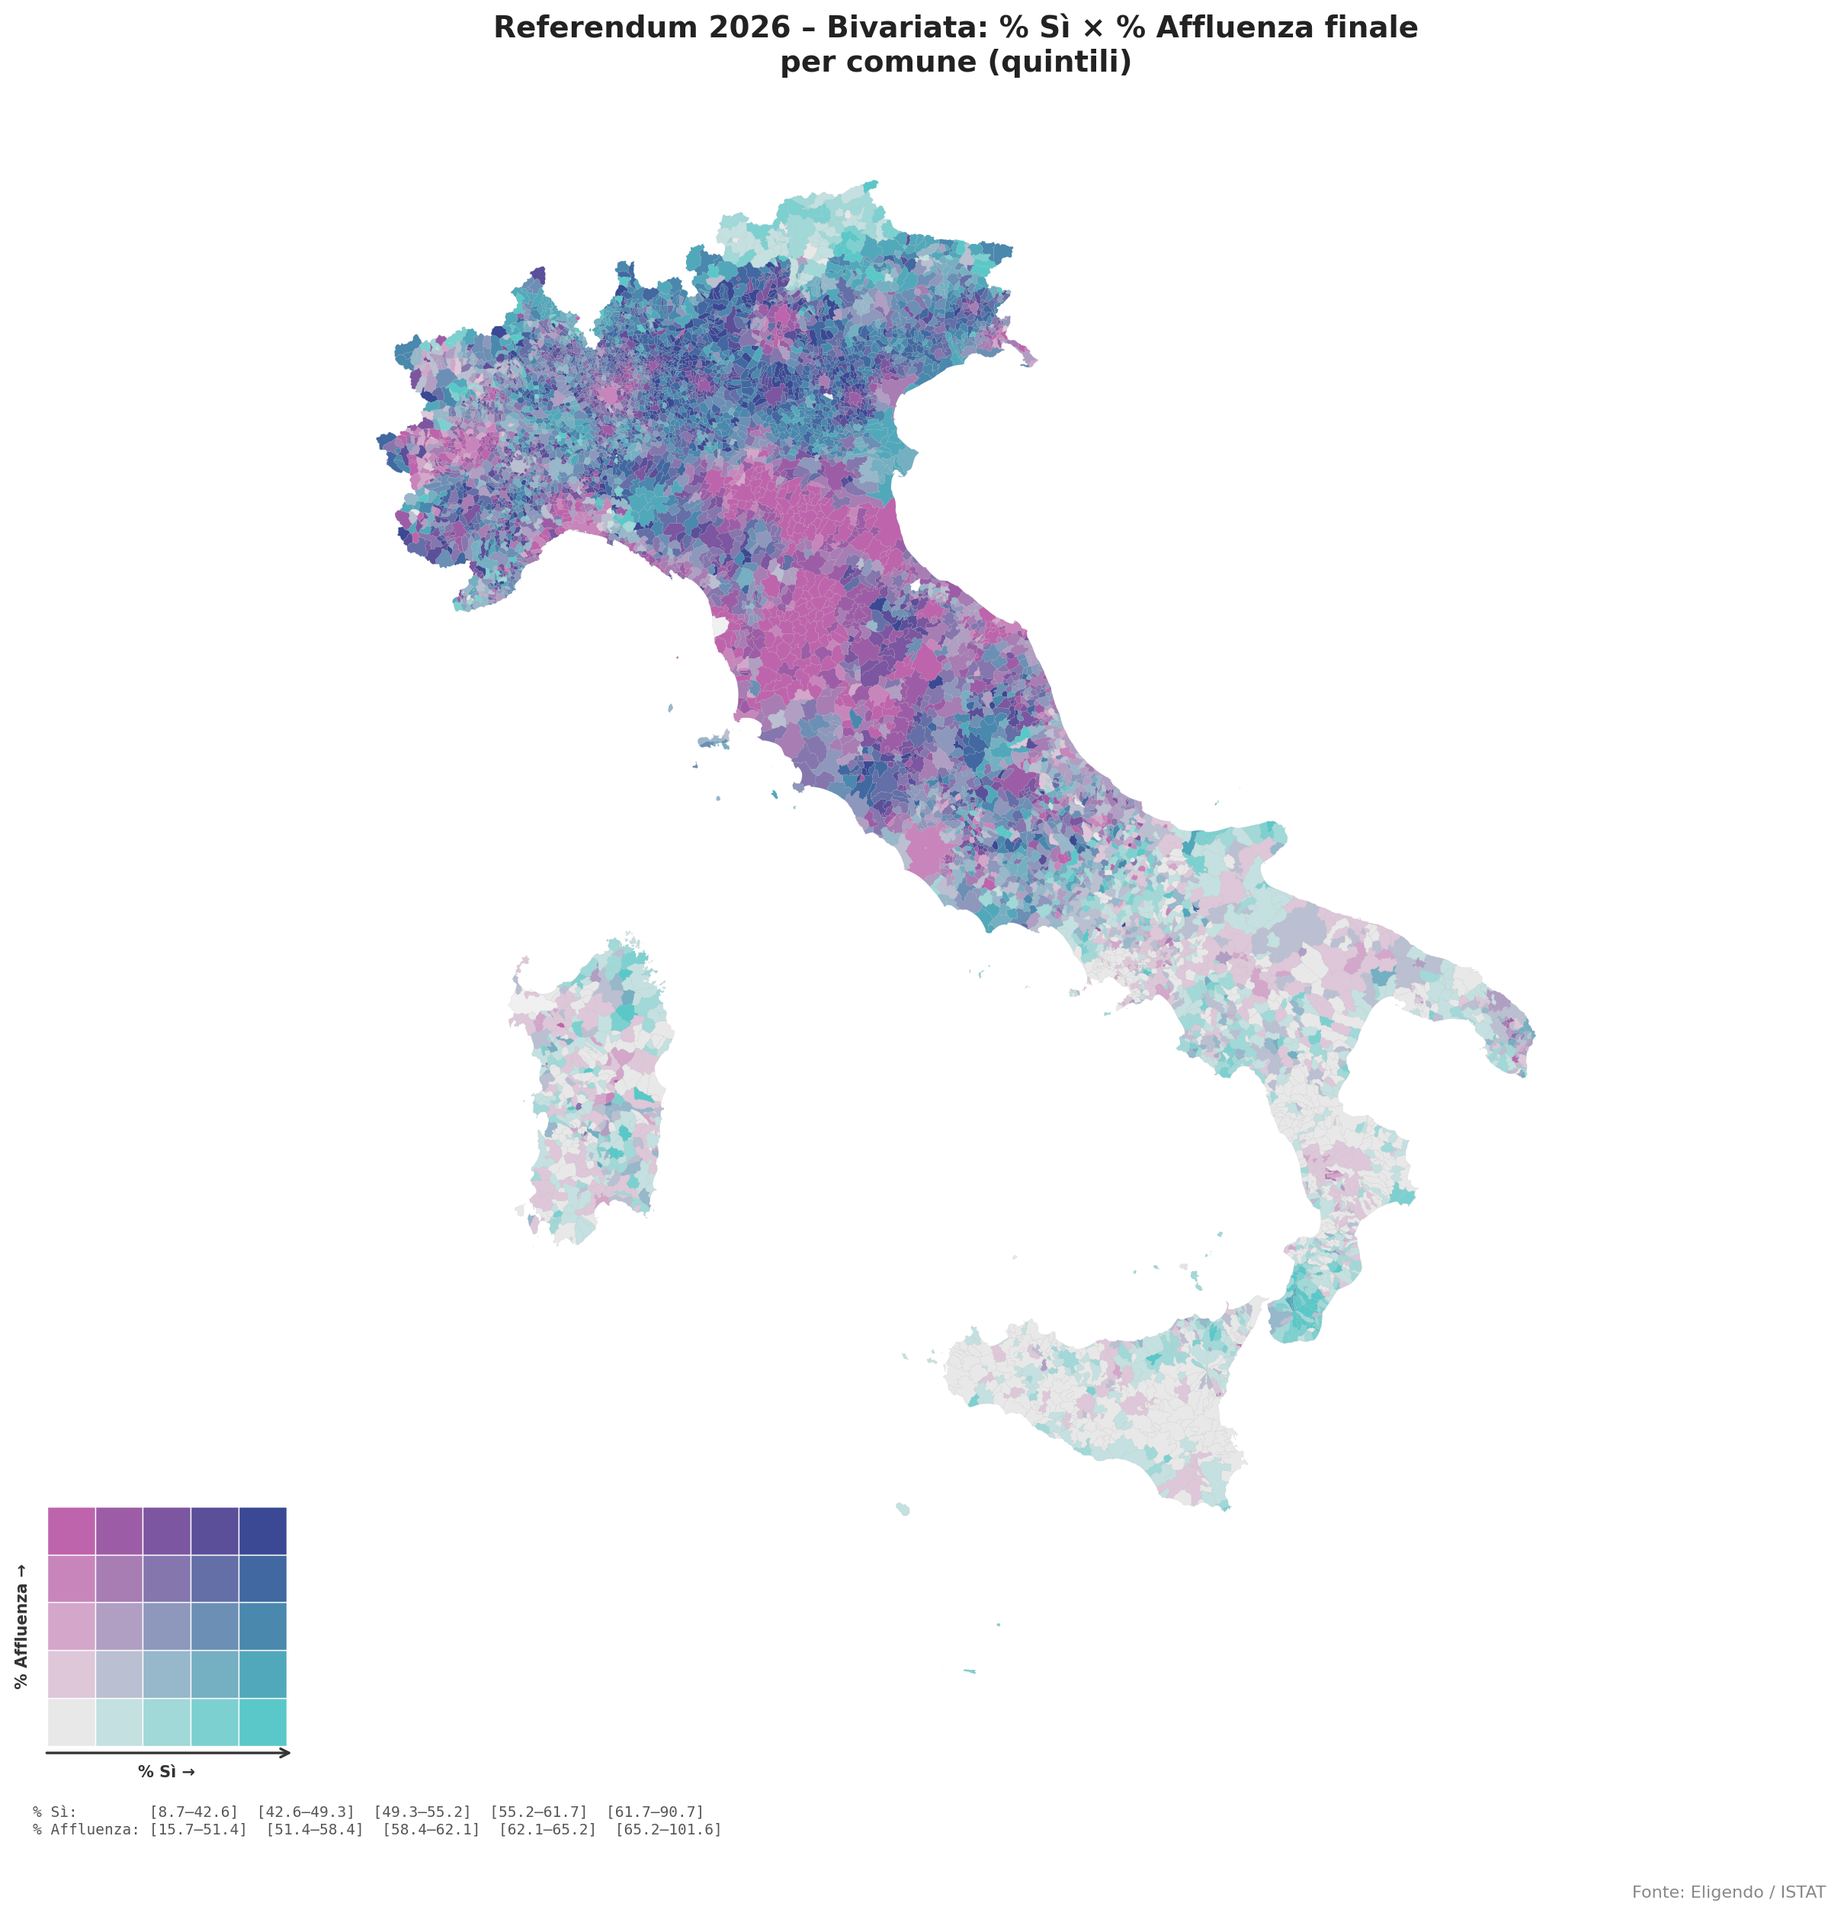
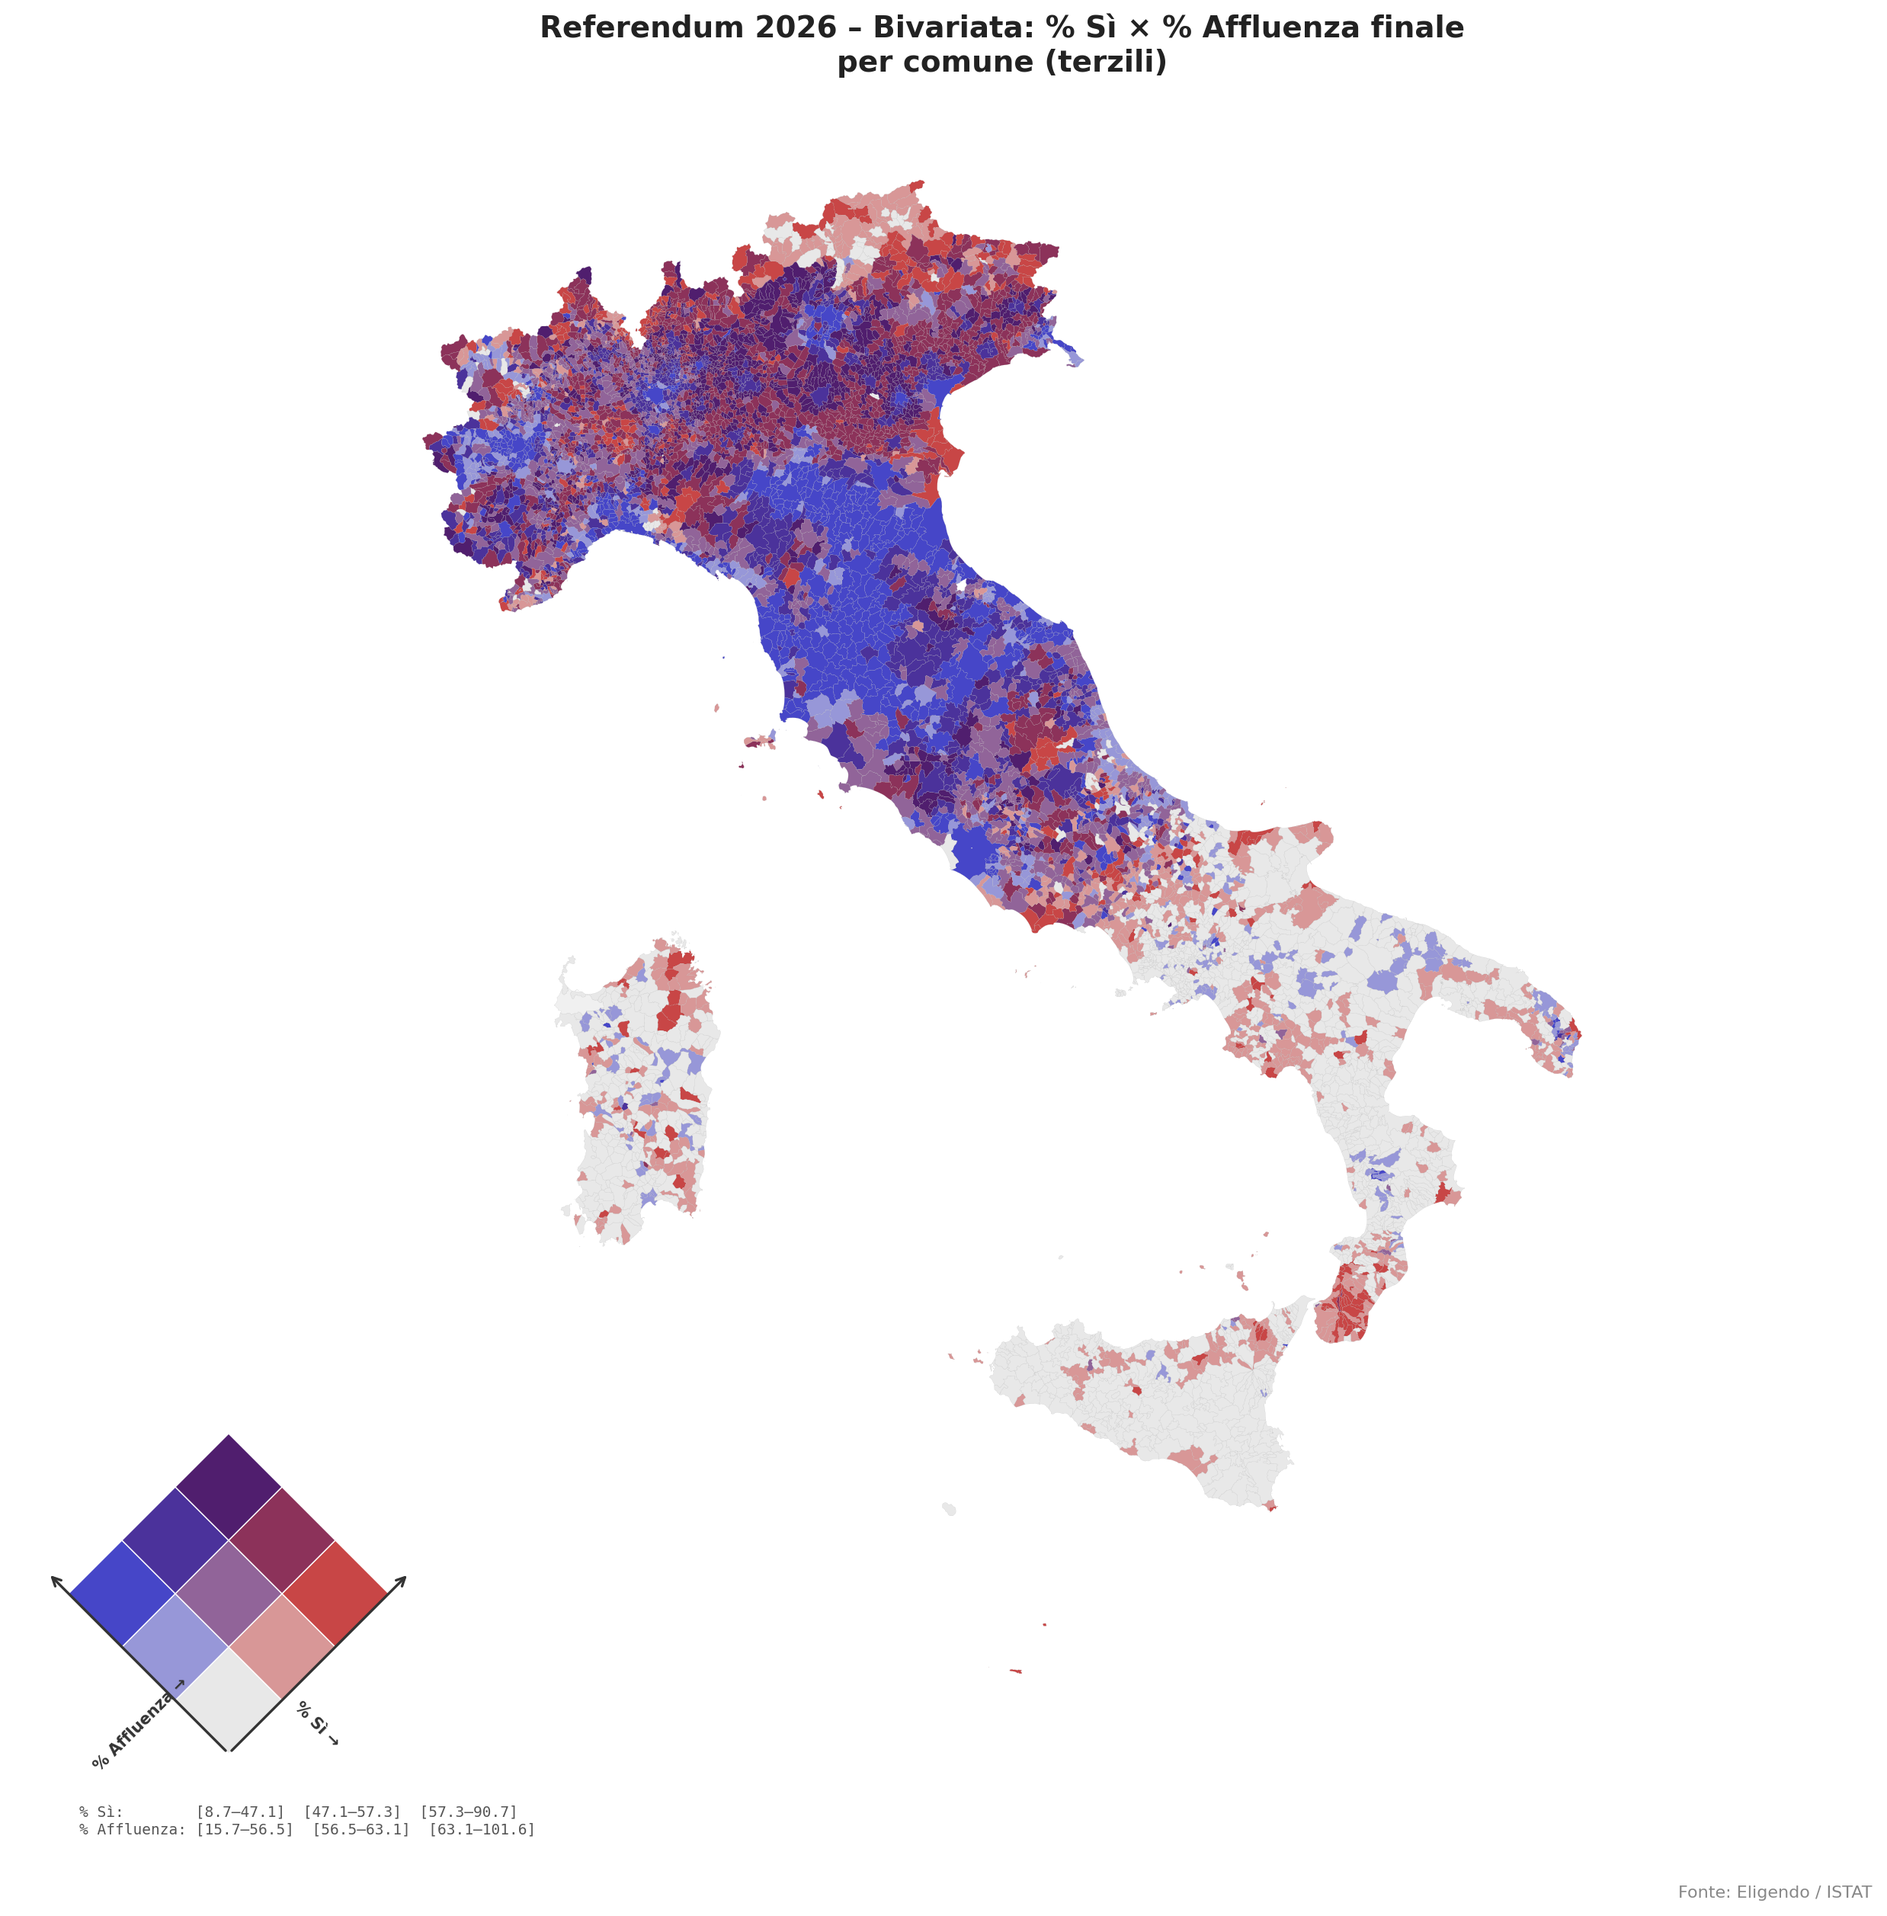
Mappa bivariata: schema Trumbo 3x3, legenda 45°
- N=3 (terzili, max raccomandato da letteratura)
- Palette rosso-viola-blu (Trumbo 1981)
- Legenda quadrato ruotato a 45° con frecce sugli assi

diff --git a/mappe/bivariate/bivariate_map.py b/mappe/bivariate/bivariate_map.py
@@ -5,7 +5,7 @@
 # ///
 """
 Bivariate choropleth: % Sì vs % Affluenza finale per comune - Referendum 2026
-Palette: interpolazione bilineare dagli angoli Stevens (teal × pink/violet)
+Palette: schema Trumbo (1981) rosso-viola-blu, legenda quadrato a 45°.
 
 Personalizzazione: vedi sezione "CONFIG" qui sotto.
 """
@@ -26,16 +26,16 @@ SCRUTINI = BASE / "data/20260322/scrutini_flat.csv"
 GEOJSON  = BASE / "tmp/Com01012026_g_WGS84.geojson"
 OUT      = pathlib.Path(__file__).parent / "bivariate_map.png"
 
-# Numero di classi per asse (es. 3=terzili, 4=quartili, 5=quintili)
-N = 5
+# Numero di classi per asse (3=terzili, max raccomandato da letteratura)
+N = 3
 
-# Colori ai 4 angoli della griglia (RGB). Modifica per cambiare palette.
+# Colori ai 4 angoli della griglia (RGB) – schema Trumbo (1981) rosso-viola-blu.
 # (si_basso, vot_basso) → (si_alto, vot_basso)
 # (si_basso, vot_alto)  → (si_alto, vot_alto)
-C00 = np.array([232, 232, 232])  # grigio chiaro
-C_N0 = np.array([90,  200, 200])  # teal
-C0_N = np.array([190, 100, 172])  # viola/rosa
-C_NN = np.array([59,   73, 148])  # blu scuro
+C00 = np.array([232, 232, 232])  # grigio neutro (basso-basso)
+C_N0 = np.array([200,  70,  70])  # rosso (% Sì alto, affluenza bassa)
+C0_N = np.array([ 70,  70, 200])  # blu (% Sì basso, affluenza alta)
+C_NN = np.array([ 80,  30, 110])  # viola scuro (entrambi alti)
 
 # Filtro territoriale: None = tutti i comuni
 # Esempi: COD_REG == 19 (Sicilia), COD_REG == 15 (Campania)
@@ -117,34 +117,35 @@ fig.patch.set_facecolor('white')
 
 gdf.plot(ax=ax, color=gdf['color'], linewidth=0.05, edgecolor='#aaaaaa')
 
-# ── Legenda N×N come inset ────────────────────────────────────────────────────
-legend_ax = fig.add_axes([0.08, 0.10, 0.13, 0.13])
+# ── Legenda quadrato a 45° (Trumbo 1981) ─────────────────────────────────────
+legend_ax = fig.add_axes([0.05, 0.07, 0.20, 0.20])
 legend_ax.set_aspect('equal')
 legend_ax.set_axis_off()
 
-cell = 1.0
 for i, col in enumerate(LABELS_SI):
     for j, row in enumerate(LABELS_VOT):
-        rect = mpatches.FancyBboxPatch(
-            (i * cell, j * cell), cell, cell,
-            boxstyle="square,pad=0",
+        cx = float(i - j)
+        cy = float(i + j + 1)
+        corners = [(cx, cy - 1), (cx + 1, cy), (cx, cy + 1), (cx - 1, cy)]
+        legend_ax.add_patch(mpatches.Polygon(
+            corners, closed=True,
             facecolor=COLORS[col + row],
-            edgecolor='white',
-            linewidth=0.5,
-        )
-        legend_ax.add_patch(rect)
+            edgecolor='white', linewidth=0.5))
 
-legend_ax.set_xlim(-0.1, N + 0.3)
-legend_ax.set_ylim(-0.5, N + 0.3)
+# coordinate space: x ∈ [-(N+1), N+1], y ∈ [-1.5, 2N+0.5] – range uguale per aspect='equal'
+legend_ax.set_xlim(-(N + 1), N + 1)
+legend_ax.set_ylim(-1.5, 2 * N + 0.5)
 
 arrow_kw = dict(arrowstyle='->', color='#333333', lw=1.2)
-legend_ax.annotate('', xy=(N + 0.2, -0.15), xytext=(-0.1, -0.15), arrowprops=arrow_kw)
-legend_ax.annotate('', xy=(-0.15, N + 0.2), xytext=(-0.15, -0.1), arrowprops=arrow_kw)
+# freccia asse % Sì: vertice inferiore → vertice destro del diamante
+legend_ax.annotate('', xy=(N + 0.4, N + 0.4), xytext=(0, 0), arrowprops=arrow_kw)
+# freccia asse % Affluenza: vertice inferiore → vertice sinistro del diamante
+legend_ax.annotate('', xy=(-N - 0.4, N + 0.4), xytext=(0, 0), arrowprops=arrow_kw)
 
-legend_ax.text(N / 2, -0.4, '% Sì →', ha='center', va='top',
-               fontsize=7.5, color='#333333', fontweight='bold')
-legend_ax.text(-0.35, N / 2, '% Affluenza →', ha='right', va='center',
-               fontsize=7.5, color='#333333', fontweight='bold', rotation=90)
+legend_ax.text(N * 0.55, N * 0.55 - 1.1, '% Sì →', ha='center', va='center',
+               fontsize=7.5, color='#333333', fontweight='bold', rotation=-45)
+legend_ax.text(-N * 0.55, N * 0.55 - 1.1, '% Affluenza →', ha='center', va='center',
+               fontsize=7.5, color='#333333', fontweight='bold', rotation=45)
 
 # ── Titolo e note ─────────────────────────────────────────────────────────────
 nomi_classi = {3: 'terzili', 4: 'quartili', 5: 'quintili'}
